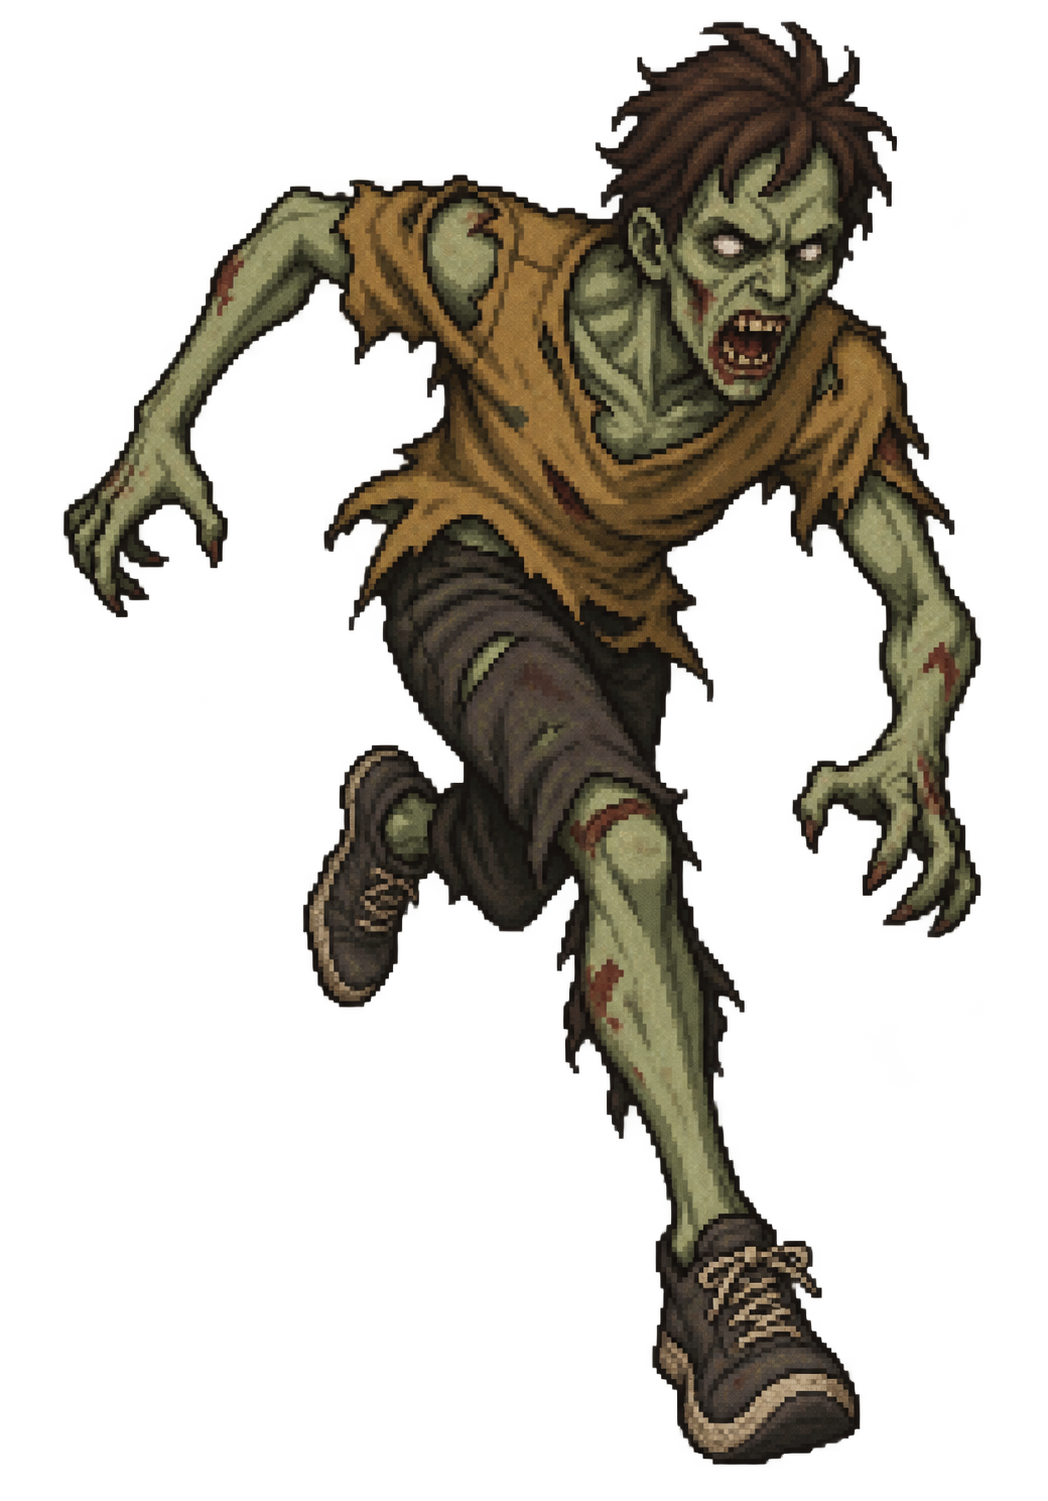
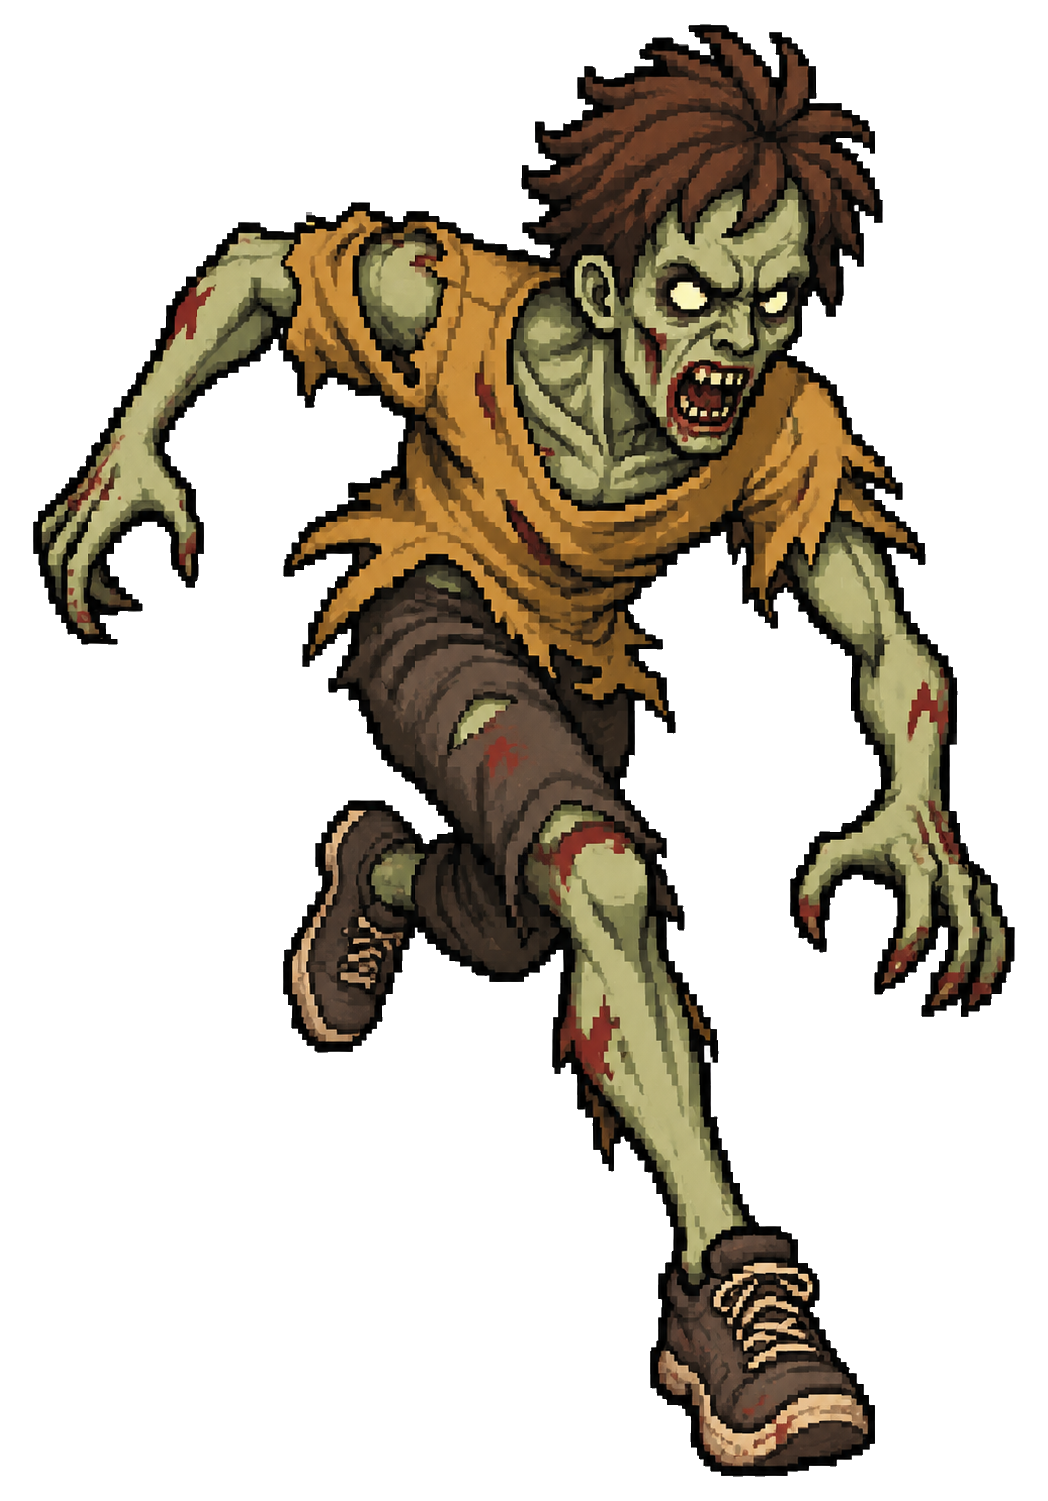
art: ridisegna lo sprinter in pixel art

diff --git a/test/action_test.dart b/test/action_test.dart
@@ -55,6 +55,29 @@ void main() {
     expect(events.whereType<NoiseEvent>().single.radius, 14);
   });
 
+  test('a cultist zombie needs three pistol shots to go down', () {
+    final world = corridorWorld(
+      EntityKind.cultist,
+      zombiePosition: const GridPoint(4, 1),
+    );
+    final zombie = world.entities['zombie']!;
+
+    const TurnScheduler().advance(world, const ShootAction());
+
+    expect(zombie.isAlive, isTrue);
+    expect(zombie.component<HealthComponent>().current, 2);
+
+    const TurnScheduler().advance(world, const ShootAction());
+
+    expect(zombie.isAlive, isTrue);
+    expect(zombie.component<HealthComponent>().current, 1);
+
+    const TurnScheduler().advance(world, const ShootAction());
+
+    expect(zombie.isAlive, isFalse);
+    expect(zombie.component<HealthComponent>().current, 0);
+  });
+
   test('blocked movement consumes a turn without moving the player', () {
     final world = playerOnlyWorld(facing: Direction.west);
 

diff --git a/test/zombie_book_test.dart b/test/zombie_book_test.dart
@@ -97,6 +97,25 @@ void main() {
     );
   });
 
+  testWidgets('the cultist zombie has its own book page', (tester) async {
+    final index = zombieCards.indexWhere(
+      (card) => card.kind == EntityKind.cultist,
+    );
+    await pumpBook(
+      tester,
+      known: const <EntityKind>{EntityKind.wanderer, EntityKind.cultist},
+    );
+
+    await tap(tester, 'zombie-book-$index');
+
+    expect(find.text('CULTISTA'), findsNWidgets(2), reason: 'list and card');
+    expect(find.textContaining('tre per abbatterlo'), findsOneWidget);
+    expect(
+      find.byKey(ValueKey<String>('zombie-book-portrait-$index')),
+      findsOneWidget,
+    );
+  });
+
   test('every zombie type of the game has its card, once, with its lore', () {
     for (final MapEntry(key: kind, value: lore) in zombieLore.entries) {
       final cards = zombieCards.where((card) => card.kind == kind);

diff --git a/test/sprite_atlas_test.dart b/test/sprite_atlas_test.dart
@@ -34,6 +34,7 @@ void main() {
       'zombie_mutilated',
       'zombie_burning',
       'zombie_drunk',
+      'zombie_cultist',
     ];
     for (final name in names) {
       final image = await loadSheet(name);
@@ -84,8 +85,14 @@ void main() {
     }
   });
 
-  test('special-zombie portraits match the story portrait contract', () async {
-    for (final name in <String>['mutilated', 'burning', 'drunk']) {
+  test('zombie portraits match the story portrait contract', () async {
+    for (final name in <String>[
+      'sprinter',
+      'mutilated',
+      'burning',
+      'drunk',
+      'zombie_cultist',
+    ]) {
       final image = await loadAsset('assets/story/portrait_$name.png');
       expect(image.width, 1048, reason: name);
       expect(image.height, 1501, reason: name);

diff --git a/lib/game/zombie_lore.dart b/lib/game/zombie_lore.dart
@@ -111,4 +111,17 @@ const Map<EntityKind, ZombieLore> zombieLore = <EntityKind, ZombieLore>{
         'arriva dritto.',
     introducedOnSight: true,
   ),
+  EntityKind.cultist: ZombieLore(
+    name: 'Cultista',
+    portrait: 'assets/story/portrait_zombie_cultist.png',
+    lesson:
+        'Gli zombi cultisti si muovono come i vaganti, ma la loro massa '
+        'muscolare richiede tre colpi di pistola per abbatterli',
+    description:
+        'La mutazione ha gonfiato il corpo oltre la tunica: il cappuccio è '
+        'caduto sulle spalle, le vesti si sono strappate e vene gialle '
+        'innaturali attraversano le braccia. Avanza al passo di un vagante, '
+        'ma i primi due colpi non bastano: ne servono tre per abbatterlo.',
+    introducedOnSight: true,
+  ),
 };

diff --git a/lib/game/render/character_component.dart b/lib/game/render/character_component.dart
@@ -466,6 +466,12 @@ final class CharacterComponent extends PositionComponent {
           PixelPalette.sprinter,
           PixelPalette.zombieDark,
         ),
+        EntityKind.cultist => (
+          PixelPalette.zombie,
+          PixelPalette.hair,
+          PixelPalette.cultistRobe,
+          PixelPalette.cultistVein,
+        ),
       };
 
   String _atlasName(EntityKind kind) => switch (kind) {
@@ -478,5 +484,6 @@ final class CharacterComponent extends PositionComponent {
     EntityKind.mutilated => 'zombie_mutilated',
     EntityKind.burning => 'zombie_burning',
     EntityKind.drunk => 'zombie_drunk',
+    EntityKind.cultist => 'zombie_cultist',
   };
 }

diff --git a/lib/core/entities/entity.dart b/lib/core/entities/entity.dart
@@ -6,6 +6,8 @@ import 'package:stepbound/core/entities/components.dart';
 /// [burning]: a wanderer on fire, which sets alight every tile it leaves.
 /// [drunk]: a wanderer that staggers about at random, aware of the player or
 /// not, and only bites straight when he is next to it.
+/// [cultist]: a towering cultist zombie which walks like a wanderer but
+/// survives the first pistol shot.
 enum EntityKind {
   player,
   wanderer,
@@ -16,6 +18,7 @@ enum EntityKind {
   mutilated,
   burning,
   drunk,
+  cultist,
 }
 
 final class Entity {

diff --git a/lib/game/render/pixel_palette.dart b/lib/game/render/pixel_palette.dart
@@ -21,6 +21,8 @@ abstract final class PixelPalette {
   static const Color sprinter = Color(0xff8b7446);
   static const Color brute = Color(0xff73504b);
   static const Color blind = Color(0xff77808b);
+  static const Color cultistRobe = Color(0xff62564f);
+  static const Color cultistVein = Color(0xffd8c94f);
   static const Color debugGrid = Color(0x5548a9c5);
   static const Color debugCollision = Color(0x779b2f24);
   static const Color debugVision = Color(0x99e6c45d);

diff --git a/test/ai_test.dart b/test/ai_test.dart
@@ -15,6 +15,10 @@ void main() {
       expect(_xAfterWaits(EntityKind.wanderer, 2), 4);
       expect(_xAfterWaits(EntityKind.wanderer, 3), 3);
 
+      expect(_xAfterWaits(EntityKind.cultist, 1), 4);
+      expect(_xAfterWaits(EntityKind.cultist, 2), 4);
+      expect(_xAfterWaits(EntityKind.cultist, 3), 3);
+
       expect(_xAfterWaits(EntityKind.brute, 1), 4);
       expect(_xAfterWaits(EntityKind.brute, 3), 4);
       expect(_xAfterWaits(EntityKind.brute, 4), 3);

diff --git a/test/tutorial_level_test.dart b/test/tutorial_level_test.dart
@@ -151,6 +151,14 @@ void main() {
     expect(map.tileAt(const GridPoint(16, 6)).isWalkable, isTrue);
   });
 
+  test('the cultist zombie is not placed in the world yet', () {
+    final cultists = createTutorialWorld().entities.values.where(
+      (entity) => entity.kind == EntityKind.cultist,
+    );
+
+    expect(cultists, isEmpty);
+  });
+
   List<Entity> zombiesIn(WorldState world, Place region) => world
       .entities
       .values

diff --git a/lib/core/entities/default_balance.g.dart b/lib/core/entities/default_balance.g.dart
@@ -71,4 +71,11 @@ const Map<EntityKind, ActorStats> _defaultActorStats = <EntityKind, ActorStats>{
     contactDamage: 1,
     staggers: true,
   ),
+  EntityKind.cultist: ActorStats(
+    tickCost: 2,
+    health: 3,
+    vision: 6,
+    hearing: 8,
+    contactDamage: 1,
+  ),
 };

diff --git a/tools/generate_balance.dart b/tools/generate_balance.dart
@@ -30,6 +30,7 @@ const List<String> _actorKinds = <String>[
   'mutilated',
   'burning',
   'drunk',
+  'cultist',
 ];
 
 /// The stats every actor must carry, in generated order, with the smallest

diff --git a/lib/core/ascii_renderer.dart b/lib/core/ascii_renderer.dart
@@ -33,5 +33,6 @@ final class AsciiRenderer {
     EntityKind.mutilated => 'M',
     EntityKind.burning => 'F',
     EntityKind.drunk => 'U',
+    EntityKind.cultist => 'T',
   };
 }
